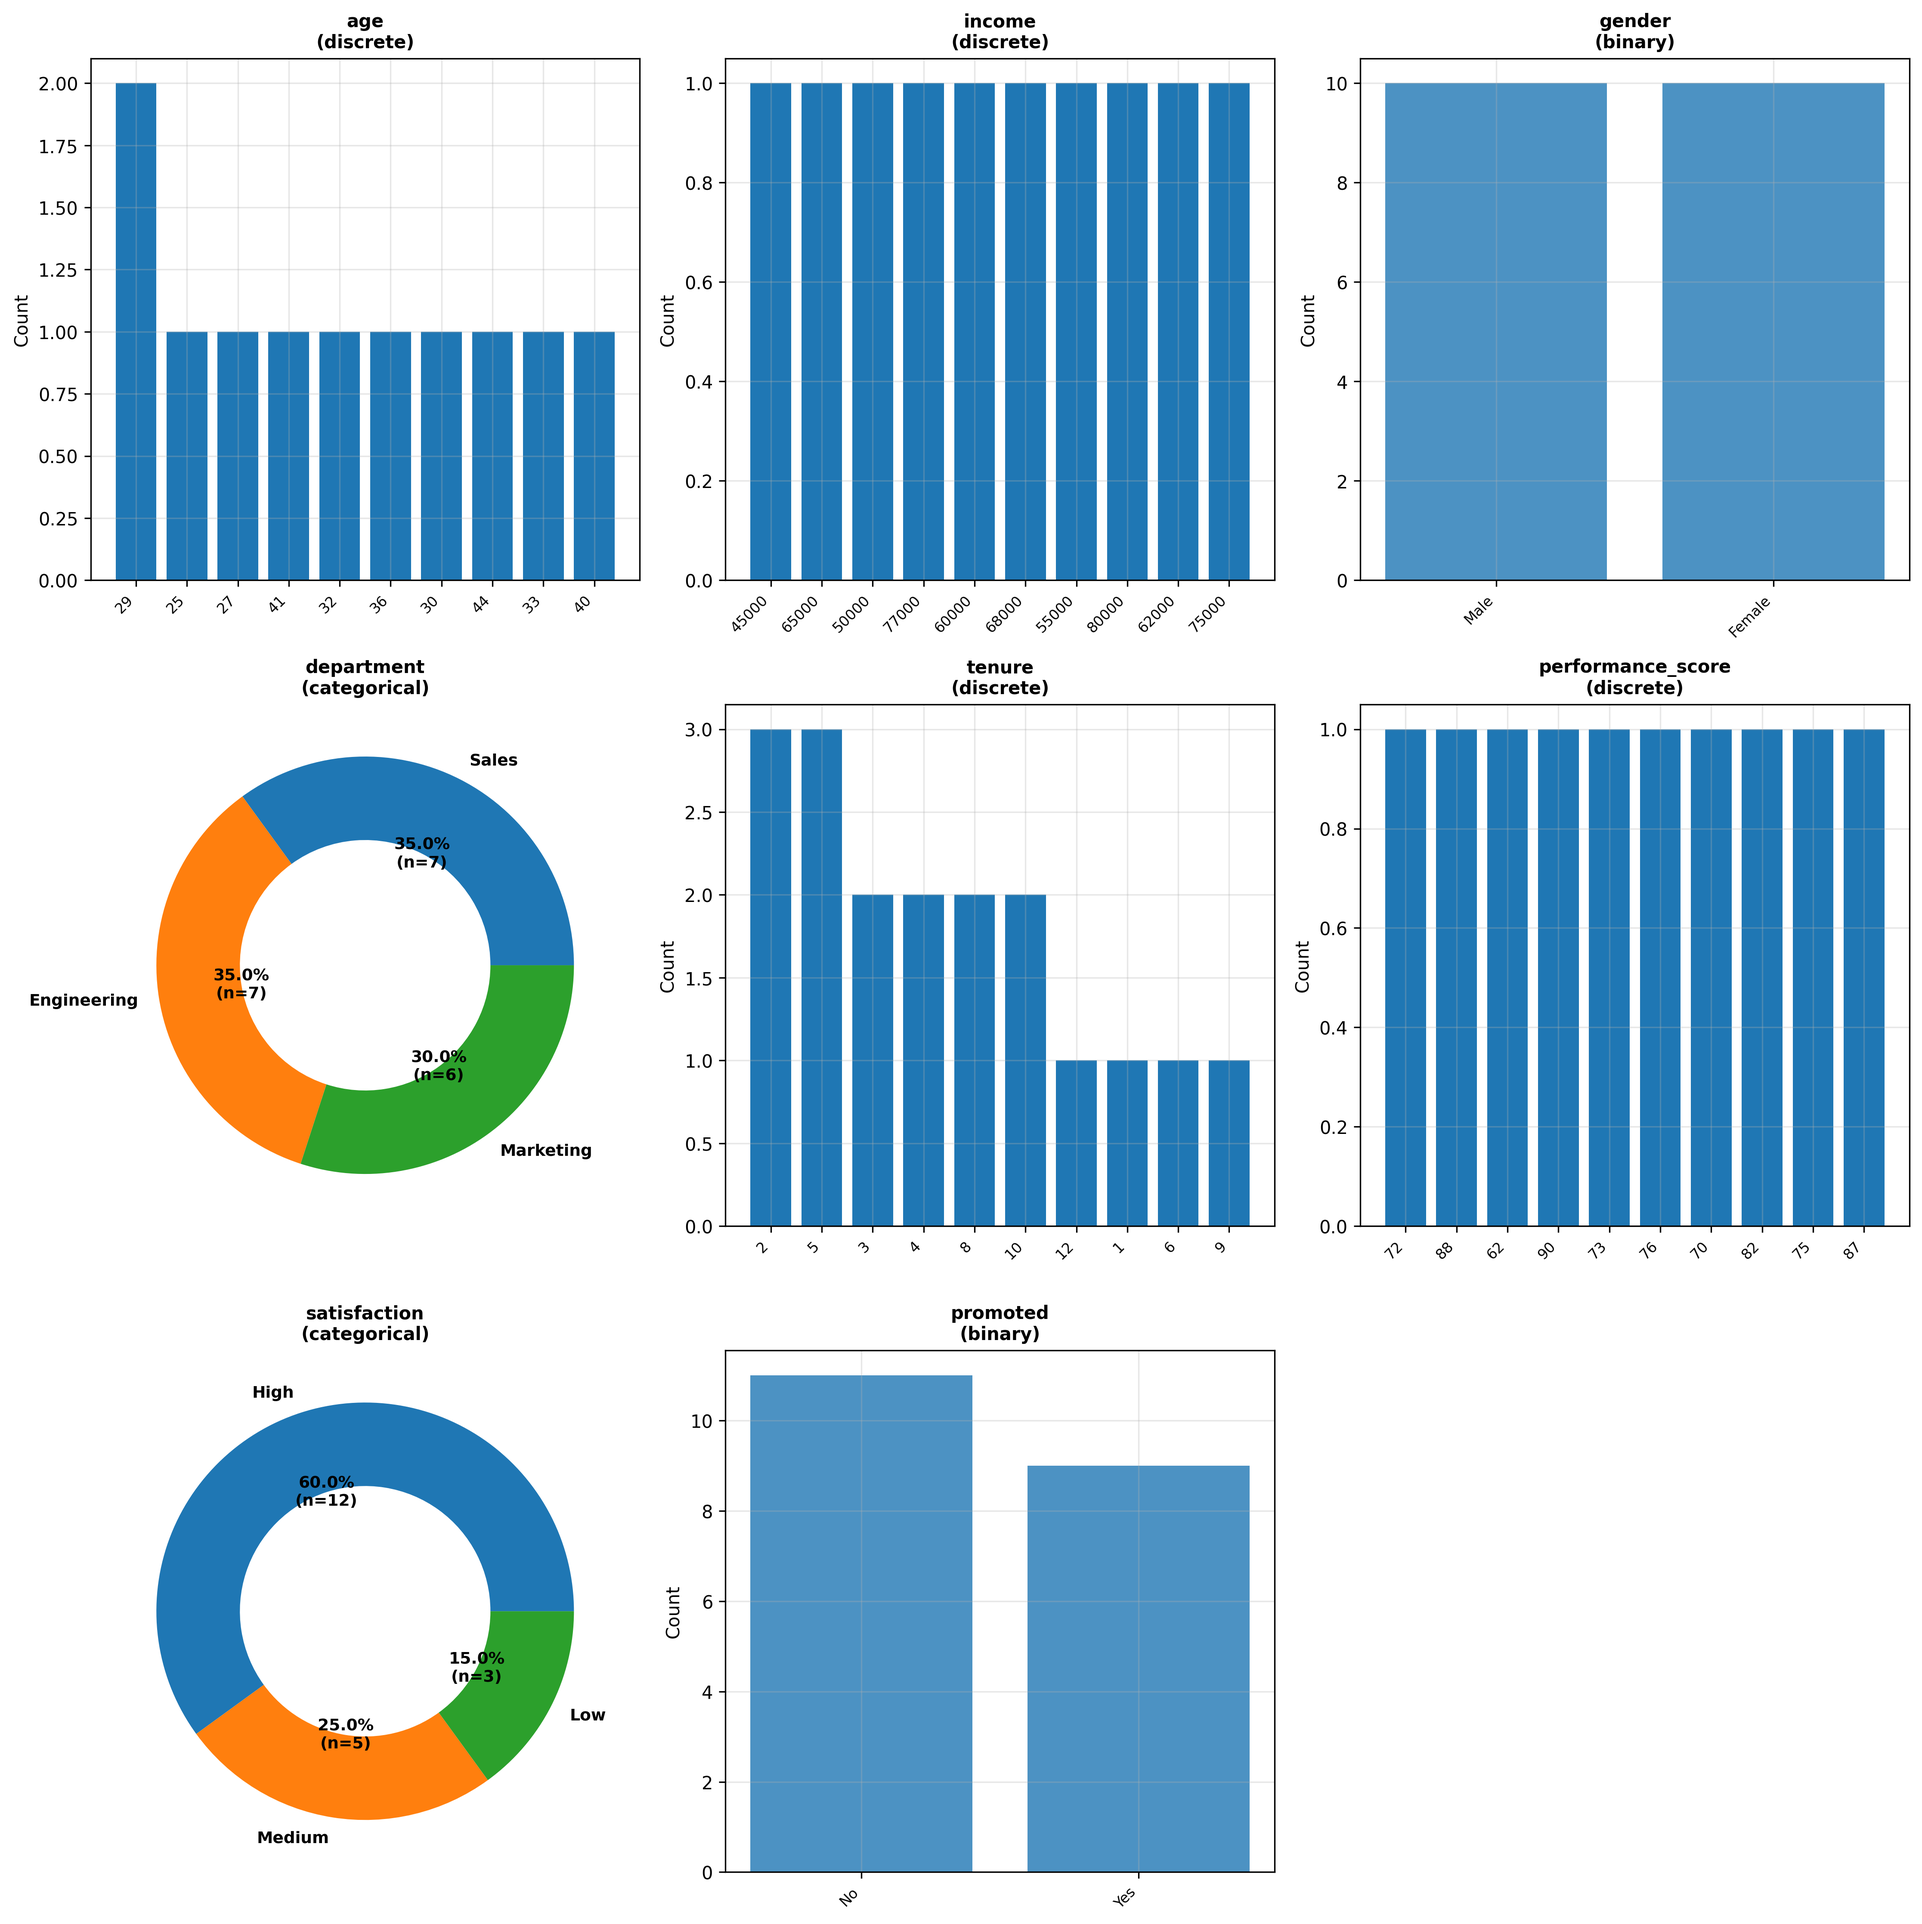
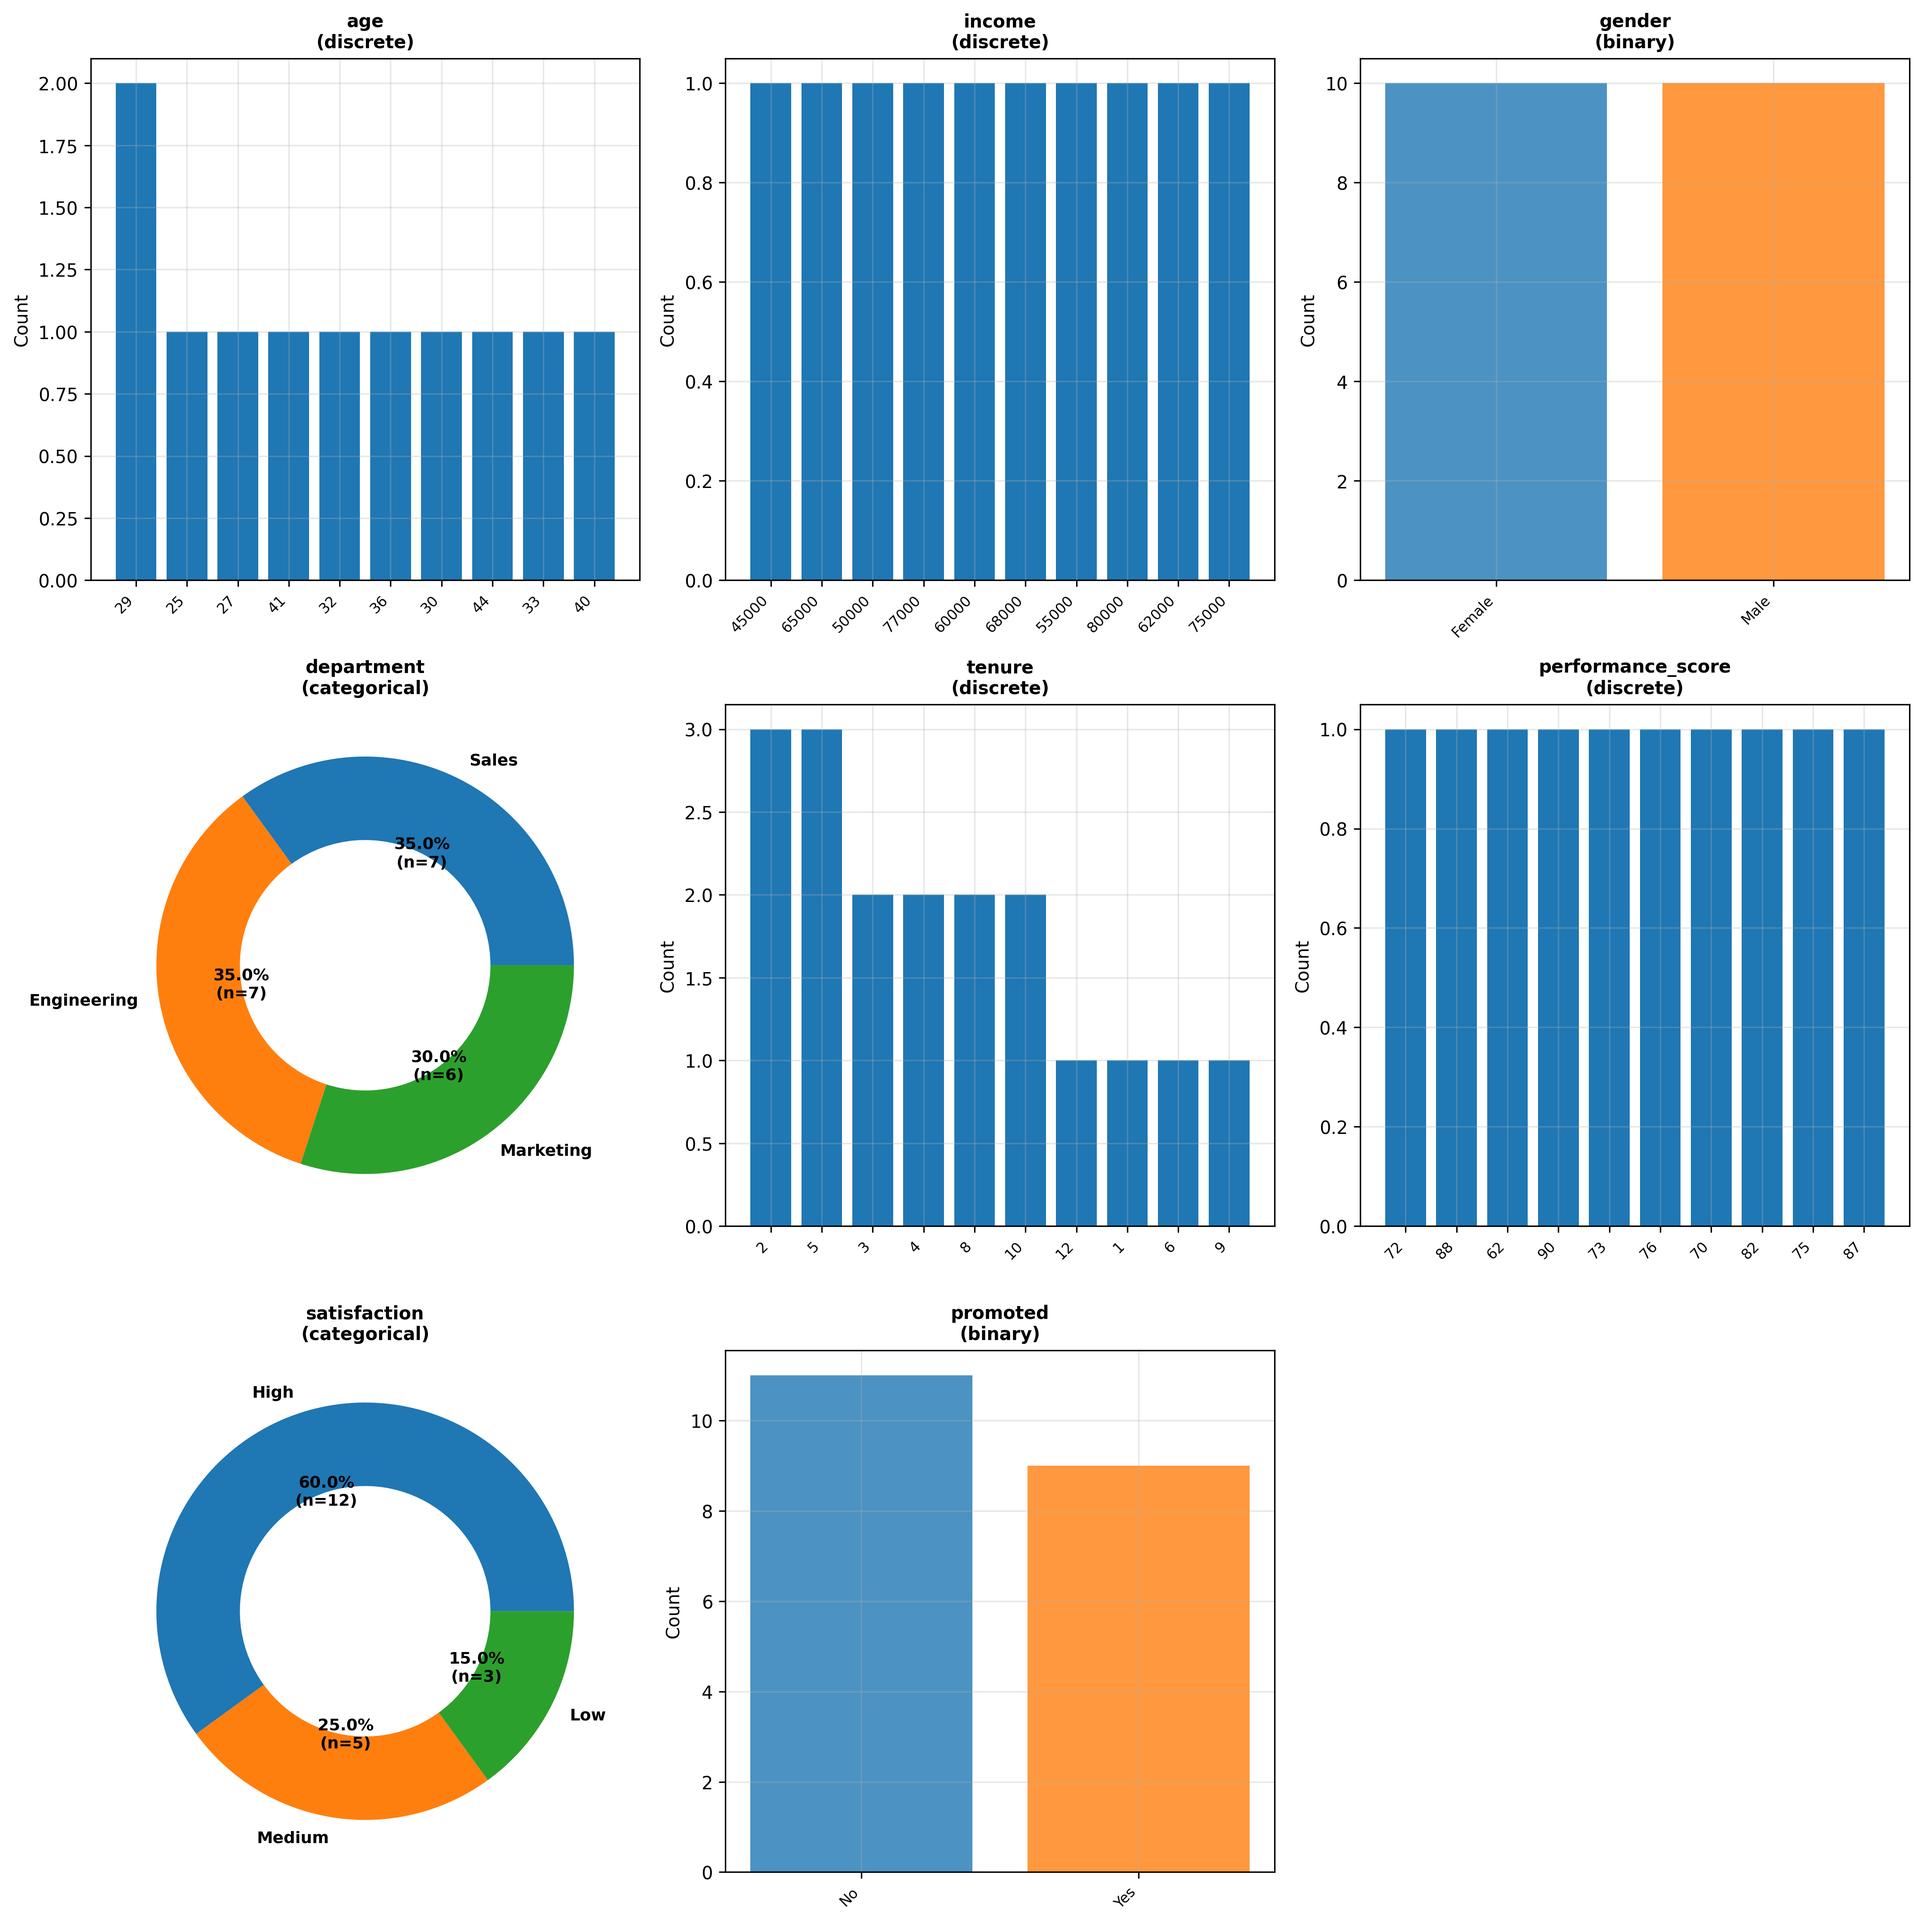
Temporal added

Changed region(s): [[0.8405, 0.0311, 0.9962, 0.3109], [0.5292, 0.7461, 0.6538, 0.9949]]

diff --git a/src/data_visualizer.py b/src/data_visualizer.py
@@ -16,6 +16,44 @@ class DataVisualizer:
     - Trivariate (3D): Relationships with additional grouping/color dimension
     """
 
+    # Define consistent color mapping for binary data
+    BINARY_COLORS = {
+        0: "#1f77b4",  # Blue for 0/False/No
+        1: "#ff7f0e",  # Orange for 1/True/Yes
+        0.0: "#1f77b4",
+        1.0: "#ff7f0e",
+        False: "#1f77b4",
+        True: "#ff7f0e",
+        "No": "#1f77b4",
+        "Yes": "#ff7f0e",
+    }
+
+    @staticmethod
+    def _get_binary_colors(values):
+        """
+        Get consistent colors for binary data.
+
+        Parameters
+        ----------
+        values : array-like
+            Values to get colors for (should be binary: 0/1, True/False, etc.)
+
+        Returns
+        -------
+        list
+            List of colors matching the values
+        """
+        colors = []
+        sorted_values = sorted(values)  # Ensure consistent ordering
+        for val in values:
+            if val in DataVisualizer.BINARY_COLORS:
+                colors.append(DataVisualizer.BINARY_COLORS[val])
+            else:
+                # For non-standard binary values, use order-based coloring
+                # Lower value = blue, higher value = orange
+                colors.append("#1f77b4" if val == sorted_values[0] else "#ff7f0e")
+        return colors
+
     # ==================== UNIVARIATE (1D) ====================
 
     @staticmethod
@@ -72,12 +110,18 @@ class DataVisualizer:
     @staticmethod
     def stacked_bar(ax, series: pd.Series, title: str, show_proportions: bool = False):
         """Create a stacked bar chart for binary/categorical data."""
-        value_counts = series.value_counts()
+        # Sort values to ensure consistent ordering (especially for binary 0/1)
+        value_counts = series.value_counts().sort_index()
+
+        # Check if binary and get consistent colors
+        unique_vals = set(series.dropna().unique())
+        is_binary = unique_vals.issubset({0, 1, 0.0, 1.0}) or unique_vals.issubset({True, False}) or len(unique_vals) == 2
+        colors = DataVisualizer._get_binary_colors(value_counts.index) if is_binary else None
 
         if show_proportions:
             # Show proportions
-            proportions = series.value_counts(normalize=True)
-            bars = ax.bar(range(len(proportions)), proportions.values, alpha=0.8)
+            proportions = series.value_counts(normalize=True).sort_index()
+            bars = ax.bar(range(len(proportions)), proportions.values, alpha=0.8, color=colors)
             ax.set_ylabel("Proportion")
 
             # Add count labels
@@ -86,7 +130,7 @@ class DataVisualizer:
             ax.set_ylim(0, max(proportions.values) * 1.15)
         else:
             # Show counts
-            bars = ax.bar(range(len(value_counts)), value_counts.values, alpha=0.8)
+            bars = ax.bar(range(len(value_counts)), value_counts.values, alpha=0.8, color=colors)
             ax.set_ylabel("Count")
 
         ax.set_xticks(range(len(value_counts)))
@@ -245,10 +289,65 @@ class DataVisualizer:
         """Bar chart grouped by another column (e.g., gender by churn)."""
         cross_tab = pd.crosstab(series, group_by)
 
-        if show_proportions:
-            # Calculate proportions within each group
+        # Check if series is binary (only 0 and 1, or True/False, or two values)
+        unique_vals = set(series.dropna().unique())
+        is_binary = unique_vals.issubset({0, 1, 0.0, 1.0}) or unique_vals.issubset({True, False}) or len(unique_vals) == 2
+
+        if show_proportions and is_binary:
+            # For binary data, show rate of positive outcome (1 or True or second value) per group
+            # This is more interpretable than stacked proportions
+            groups = cross_tab.columns
+            positive_value = max(unique_vals)  # Assume higher value is "positive" outcome
+
+            rates = []
+            counts_total = []
+            counts_positive = []
+
+            for group in groups:
+                total = cross_tab[group].sum()
+                # Get count of positive outcome (if it exists in this group)
+                if positive_value in cross_tab.index:
+                    positive_count = cross_tab.loc[positive_value, group]
+                else:
+                    positive_count = 0
+
+                rate = positive_count / total if total > 0 else 0
+                rates.append(rate)
+                counts_total.append(int(total))
+                counts_positive.append(int(positive_count))
+
+            # Create bar chart of rates
+            bars = ax.bar(range(len(groups)), rates, alpha=0.8)
+            ax.set_xticks(range(len(groups)))
+            ax.set_xticklabels(groups, rotation=45, ha="right")
+            ax.set_ylabel(f"Rate of {series.name}={positive_value}")
+            ax.set_ylim(0, 1.0)
+
+            # Add rate and count labels on bars
+            for i, (bar, rate, n_pos, n_tot) in enumerate(zip(bars, rates, counts_positive, counts_total)):
+                height = bar.get_height()
+                ax.text(
+                    bar.get_x() + bar.get_width() / 2.0,
+                    height,
+                    f"{rate:.1%}\n({n_pos}/{n_tot})",
+                    ha="center",
+                    va="bottom",
+                    fontsize=8,
+                )
+
+        elif show_proportions:
+            # Non-binary: show stacked proportions (original behavior)
             proportions = cross_tab.div(cross_tab.sum(axis=0), axis=1)
-            proportions.plot(kind="bar", ax=ax, alpha=0.8)
+            # Sort both to ensure consistent ordering
+            proportions = proportions.sort_index()
+            proportions = proportions[sorted(proportions.columns)]
+            # Check if the series values are binary
+            series_unique = set(series.dropna().unique())
+            series_is_binary = (
+                series_unique.issubset({0, 1, 0.0, 1.0}) or series_unique.issubset({True, False}) or len(series_unique) == 2
+            )
+            colors = DataVisualizer._get_binary_colors(proportions.index) if series_is_binary else None
+            proportions.plot(kind="bar", ax=ax, alpha=0.8, color=colors)
             ax.set_ylabel("Proportion")
 
             # Add count labels on bars
@@ -259,14 +358,23 @@ class DataVisualizer:
                     labels.append(f"n={count}")
                 ax.bar_label(container, labels=labels, fontsize=7)
         else:
-            cross_tab.plot(kind="bar", ax=ax, alpha=0.8)
+            # Sort to ensure consistent ordering
+            cross_tab = cross_tab.sort_index()
+            cross_tab = cross_tab[sorted(cross_tab.columns)]
+            # Check if the series values are binary
+            series_unique = set(series.dropna().unique())
+            series_is_binary = (
+                series_unique.issubset({0, 1, 0.0, 1.0}) or series_unique.issubset({True, False}) or len(series_unique) == 2
+            )
+            colors = DataVisualizer._get_binary_colors(cross_tab.index) if series_is_binary else None
+            cross_tab.plot(kind="bar", ax=ax, alpha=0.8, color=colors)
             ax.set_ylabel("Count")
 
         ax.set_title(title, fontsize=10, fontweight="bold")
-        ax.set_xlabel(series.name)
-        ax.legend(title=group_by.name, fontsize=8)
+        ax.set_xlabel(group_by.name)
+        if not (show_proportions and is_binary):
+            ax.legend(title=series.name, fontsize=8)
         ax.grid(True, alpha=0.3)
-        plt.setp(ax.xaxis.get_majorticklabels(), rotation=45, ha="right")
 
     @staticmethod
     def grouped_histogram(ax, data_col: pd.Series, group_col: pd.Series, title: str, show_stats: bool = False):
@@ -326,12 +434,20 @@ class DataVisualizer:
     @staticmethod
     def stacked_bar_2d(ax, series: pd.Series, group_by: pd.Series, title: str, show_proportions: bool = False):
         """Stacked bar chart showing distribution of one variable within another."""
-        cross_tab = pd.crosstab(series, group_by)
+        # Sort indices to ensure consistent ordering
+        cross_tab = pd.crosstab(series, group_by).sort_index()
+
+        # Check if group_by is binary and get consistent colors
+        unique_vals = set(group_by.dropna().unique())
+        is_binary = unique_vals.issubset({0, 1, 0.0, 1.0}) or unique_vals.issubset({True, False}) or len(unique_vals) == 2
+        # Sort columns to ensure consistent ordering
+        cross_tab = cross_tab[sorted(cross_tab.columns)]
+        colors = DataVisualizer._get_binary_colors(cross_tab.columns) if is_binary else None
 
         if show_proportions:
             # Calculate proportions within each category
             proportions = cross_tab.div(cross_tab.sum(axis=1), axis=0)
-            proportions.plot(kind="bar", stacked=True, ax=ax, alpha=0.8)
+            proportions.plot(kind="bar", stacked=True, ax=ax, alpha=0.8, color=colors)
             ax.set_ylabel("Proportion")
 
             # Add count labels (total for each category)
@@ -339,7 +455,7 @@ class DataVisualizer:
             for i, (category, total) in enumerate(category_totals.items()):
                 ax.text(i, 1.02, f"n={total}", ha="center", fontsize=7)
         else:
-            cross_tab.plot(kind="bar", stacked=True, ax=ax, alpha=0.8)
+            cross_tab.plot(kind="bar", stacked=True, ax=ax, alpha=0.8, color=colors)
             ax.set_ylabel("Count")
 
         ax.set_title(title, fontsize=10, fontweight="bold")

diff --git a/src/exploratory_data_analysis.py b/src/exploratory_data_analysis.py
@@ -321,6 +321,9 @@ class ExploratoryDataAnalysis:
         else:
             all_vars = variables
 
+        # Filter out temporal variables (they need specialized time-series visualizations)
+        all_vars = [v for v in all_vars if self._get_effective_data_type(v) != "temporal"]
+
         # Apply mode logic
         if mode == "default":
             # All variables except conditioning variables
